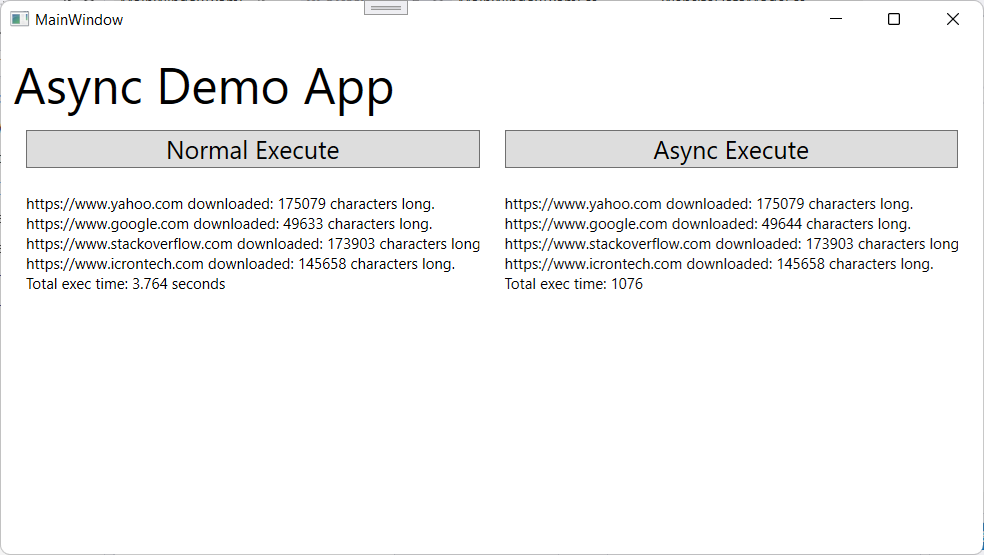
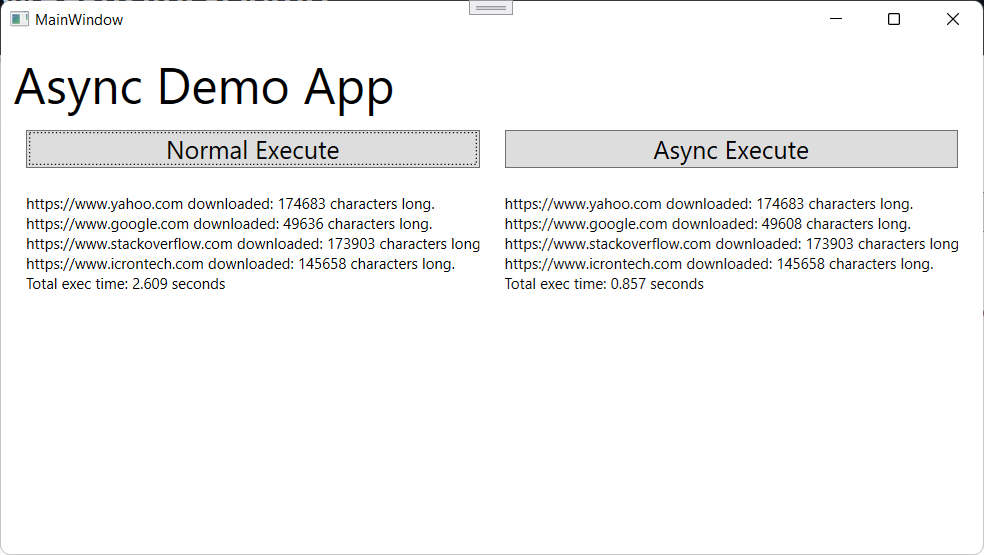
add demo img

diff --git a/MainWindow.xaml.cs b/MainWindow.xaml.cs
@@ -89,9 +89,9 @@ namespace WPF_Async_Demo
             await RunDownLoadParallelAsync();
 
             watch.Stop();
-            var elapsedMs = watch.ElapsedMilliseconds;
+            var elapsedMs = watch.ElapsedMilliseconds / 1000.0;
 
-            resultAsync.Text += $"Total exec time: {elapsedMs}";
+            resultAsync.Text += $"Total exec time: {elapsedMs} seconds";
         }
 
         private async Task RunDownLoadAsync()
